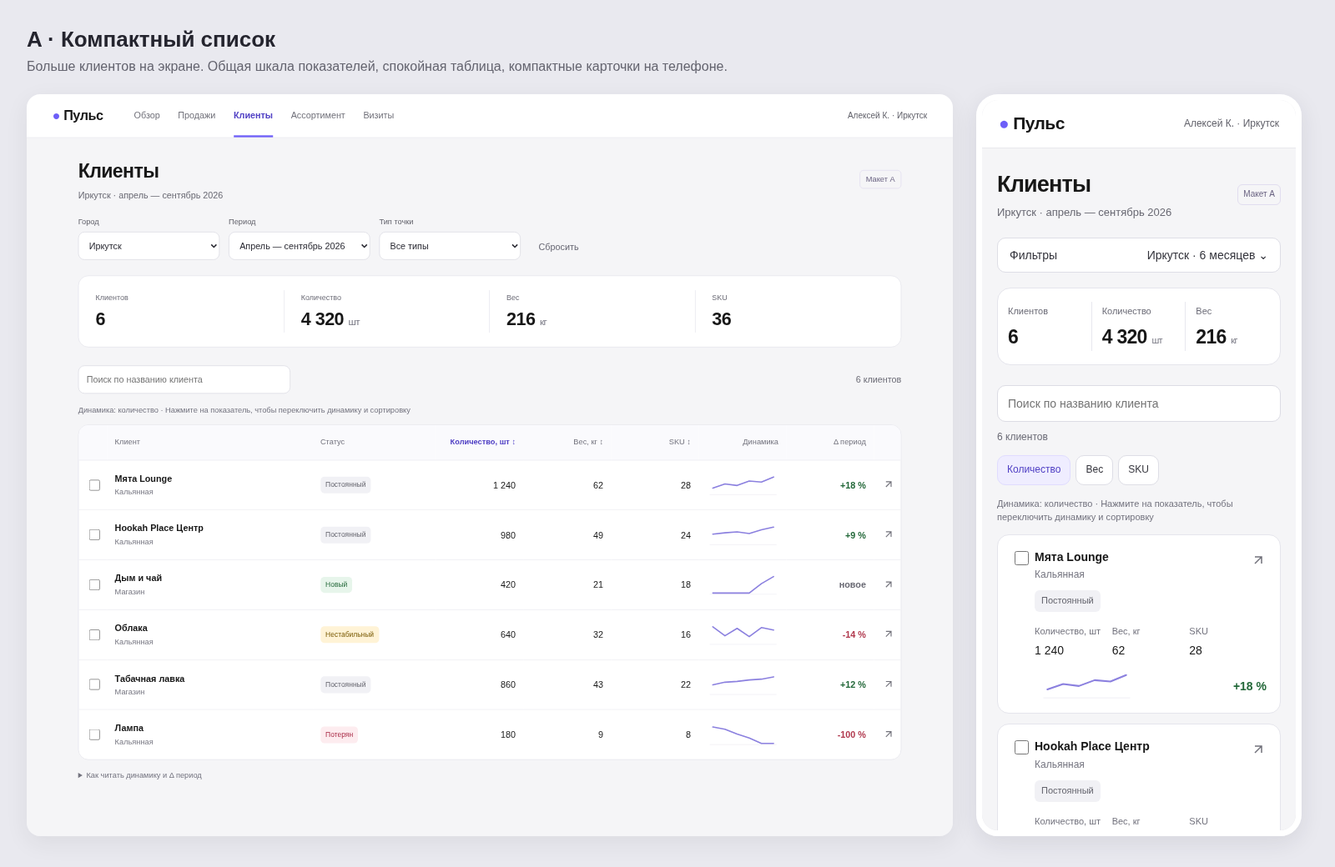
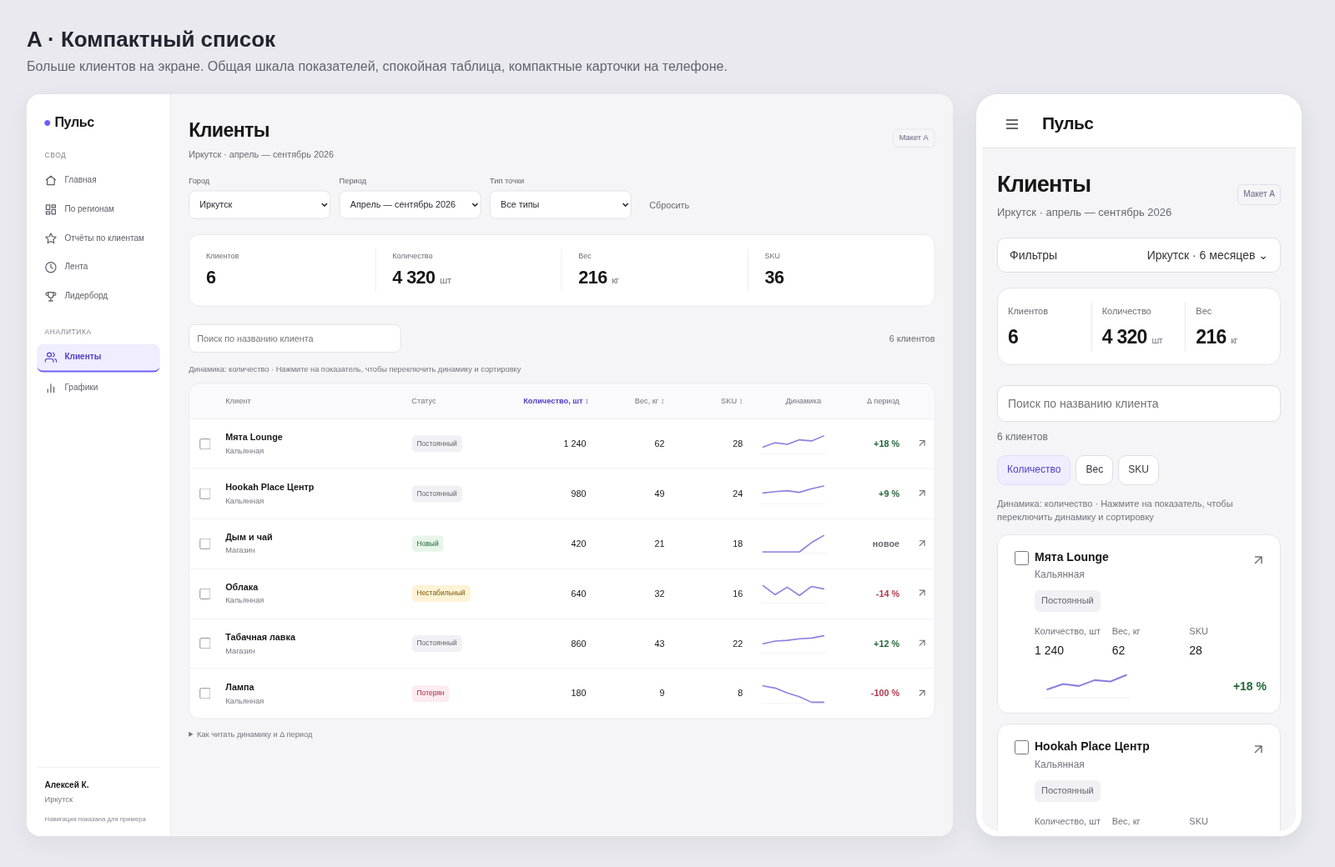
docs: retain sidebar in client concept A

diff --git a/docs/client-concepts/variant-a.html b/docs/client-concepts/variant-a.html
@@ -1,1 +1,1 @@
-<!doctype html><html lang="ru"><meta charset="utf-8"><meta name="viewport" content="width=device-width,initial-scale=1"><title>Пульс · Клиенты · Вариант A</title><style>*{box-sizing:border-box}body{margin:0;background:#f5f5f7;color:#171717;font:14px/1.45 -apple-system,BlinkMacSystemFont,"Segoe UI",Arial,sans-serif}button,input,select{font:inherit}button,select{cursor:pointer}button:focus-visible,input:focus-visible,select:focus-visible,a:focus-visible{outline:2px solid #5141c5;outline-offset:3px}button{border:1px solid #dedee6;background:white;border-radius:10px;padding:10px 14px;color:#34343c;min-height:42px}header{height:68px;background:white;border-bottom:1px solid #e8e8ed;display:flex;align-items:center;padding:0 40px;gap:48px}.logo{font-size:21px;font-weight:750;letter-spacing:-.6px}.logo i{color:#6d5ef8;font-style:normal}nav{display:flex;gap:28px;color:#72727b;height:100%;align-items:center}nav span{height:100%;display:flex;align-items:center}nav .active{color:#5141c5;border-bottom:3px solid #6d5ef8;font-weight:650}.account{margin-left:auto;color:#62626b;font-size:13px}main{max-width:1360px;margin:auto;padding:30px 40px}.heading{display:flex;align-items:center;justify-content:space-between;margin-bottom:24px}h1{font-size:30px;letter-spacing:-.8px;margin:0 0 5px;font-weight:700}.sub{color:#696973}.demo{font-size:12px;color:#6a6382;border:1px solid #e1ddef;border-radius:6px;padding:5px 9px}.filters{display:flex;gap:14px;align-items:flex-end;padding-bottom:24px}label.field{display:grid;gap:6px;font-size:12px;color:#62626b;width:220px}select,input[type=search]{border:1px solid #dcdce4;border-radius:10px;background:white;padding:11px 12px;color:#292932;min-height:44px;width:100%}select{font-size:14px}.reset{color:#676773;border:0;background:transparent}.summary{display:grid;grid-template-columns:repeat(4,1fr);background:white;border:1px solid #e5e5ec;border-radius:16px;padding:22px 0;margin-bottom:28px}.stat{padding:0 26px;border-right:1px solid #e8e8ee}.stat:last-child{border:0}.stat small{color:#6c6c77}.value{font-size:28px;font-weight:650;letter-spacing:-.7px;margin-top:5px}.value em{font-size:15px;font-style:normal;color:#777783;font-weight:400}.toolbar{display:flex;gap:16px;align-items:center;margin-bottom:18px}.toolbar input{max-width:330px}.count{color:#6c6c77;margin-left:auto}.hint{font-size:12px;color:#73737f;margin-bottom:12px}.table-shell{border:1px solid #e5e5ec;border-radius:16px;background:white;overflow:hidden}table{border-collapse:collapse;width:100%;table-layout:fixed}th{text-align:left;color:#72727d;font-size:12px;font-weight:500;background:#fafafd;padding:14px 12px;border-bottom:1px solid #e9e9ef}th button{border:0;background:transparent;padding:0;min-height:26px;color:inherit;text-align:right;font-size:12px;white-space:nowrap}th.selected button{color:#5141c5;font-weight:650}td{padding:18px 12px;border-bottom:1px solid #ededf2}tr:last-child td{border:0}tbody tr:hover{background:#fbfaff}th:first-child,td:first-child{width:44px;text-align:center}th:nth-child(2){width:25%}th:nth-child(3){width:15%}th.num,td.num{text-align:right}th:last-child,td:last-child{width:42px;text-align:center}input[type=checkbox]{width:17px;height:17px;accent-color:#6d5ef8;cursor:pointer;vertical-align:middle}.name{font-weight:650;font-size:14px}.type{font-size:12px;color:#777782;margin-top:3px}.badge{font-size:11px;border-radius:6px;padding:5px 8px;white-space:nowrap;display:inline-block;background:#f1f1f5;color:#64646d}.badge.new{background:#e7f5eb;color:#236839}.badge.unstable{background:#fff3d6;color:#775800}.badge.lost{background:#fdecef;color:#a82945}.delta{font-weight:600}.up{color:#236839}.down{color:#b1394e}.neutral{color:#696973}.spark{width:110px;height:34px;display:block;margin-left:auto}.open{border:0;padding:3px;min-height:32px;color:#72727b;background:transparent;font-size:22px}.selection{display:none;gap:12px;align-items:center;background:#efedff;border:1px solid #dcd6ff;padding:12px 16px;border-radius:12px;margin:14px 0}.selection.on{display:flex}.primary{background:#6d5ef8;color:white;border-color:#6d5ef8}.foot{font-size:12px;color:#73737f;margin-top:16px}.mobile-sort{display:none}.cards{display:grid;grid-template-columns:repeat(3,1fr);gap:18px}.client-card{background:white;border:1px solid #e5e5ec;border-radius:16px;padding:22px}.card-top{display:flex;align-items:flex-start;gap:10px}.card-top .badge{margin-left:auto}.card-title{margin:16px 0 3px;font-size:18px;font-weight:650;letter-spacing:-.3px}.card-metrics{display:grid;grid-template-columns:repeat(3,1fr);padding:22px 0;border-bottom:1px solid #ededf2;gap:10px}.card-metrics small{font-size:11px;color:#757580;display:block;margin-bottom:5px}.card-metrics strong{font-size:20px;font-weight:600}.card-bottom{display:flex;align-items:center;justify-content:space-between;margin-top:18px;gap:12px}.card-bottom .spark{width:120px;height:38px;margin:0}.card-bottom small{font-size:11px;color:#777782;display:block;margin-bottom:2px}.airy .summary{background:transparent;border:0;padding:0;gap:18px}.airy .stat{border:0;background:white;border-radius:14px;padding:22px 24px}.airy .heading{margin-bottom:32px}.airy .mobile-sort{display:flex;margin:0;gap:6px}.mobile-sort button.active{color:#5141c5;background:#efedff;border-color:#e0dcff}.airy .toolbar{flex-wrap:wrap}.empty{padding:36px;color:#73737f;text-align:center}.dialog{border:1px solid #dedee6;border-radius:18px;padding:24px;max-width:500px;width:calc(100% - 40px)}.dialog::backdrop{background:#12102066}.dialog h2{margin-top:0}.dialog button{float:right}.filter-toggle{display:none} @media(max-width:760px){header{height:58px;padding:0 20px;gap:0}nav{display:none}.account{font-size:12px}main{padding:24px 18px}h1{font-size:27px}.heading{margin-bottom:20px}.demo{font-size:10px;padding:4px 6px}.sub{font-size:13px}.filter-toggle{display:block;width:100%;text-align:left;margin-bottom:18px;display:flex;justify-content:space-between}.filters{display:none;flex-wrap:wrap;padding:0 0 20px;gap:10px}.filters.expanded{display:flex}label.field{width:100%}.summary{grid-template-columns:repeat(3,1fr);padding:16px 0;margin-bottom:24px}.stat{padding:0 12px}.stat:nth-child(3){border:0}.stat:last-child{display:none}.value{font-size:23px}.value em{font-size:11px}.stat small{font-size:11px}.toolbar{gap:10px;flex-wrap:wrap;margin-bottom:12px}.toolbar input{max-width:none}.count{font-size:12px;margin-left:0}.hint{font-size:11px;line-height:1.5;margin-top:12px}.table-shell{border:0;background:transparent;overflow:visible}table,tbody{display:block}thead{display:none}tr{display:grid;grid-template-columns:28px 1fr 1fr 1fr;background:white;border:1px solid #e5e5ec;border-radius:14px;padding:16px;margin-bottom:12px;align-items:start;position:relative}td{padding:0;border:0!important}td:first-child{grid-row:1/3;width:auto;align-self:start;text-align:left}td:nth-child(2){grid-column:2/5;margin-right:70px}td:nth-child(3){grid-column:2/5;margin-top:10px;margin-bottom:16px}td.num[data-label]{text-align:left;grid-row:3;margin-bottom:15px}td.num[data-label]::before{content:attr(data-label);display:block;font-size:11px;color:#73737e;margin-bottom:4px}td:nth-child(4){grid-column:2}td:nth-child(5){grid-column:3}td:nth-child(6){grid-column:4}td:nth-child(7){grid-column:2/4;grid-row:4}.spark{margin:0;width:125px}td:nth-child(8){grid-column:4;grid-row:4;padding-top:8px}td:last-child{position:absolute;right:15px;top:12px;width:auto}.mobile-sort{display:flex;gap:6px;margin-bottom:14px;flex-wrap:wrap}.mobile-sort button{font-size:12px;min-height:36px;padding:8px 11px}.selection{flex-wrap:wrap;padding:12px}.selection span{width:100%;font-size:13px}.selection button{font-size:12px;padding:9px}.cards{grid-template-columns:1fr;gap:14px}.client-card{padding:20px}.airy .summary{gap:8px;margin-bottom:24px}.airy .stat{padding:14px 10px}.airy .heading{margin-bottom:20px}.airy .mobile-sort{margin-bottom:6px}.card-title{font-size:18px}.foot{font-size:11px}.airy .count{margin-left:auto}}</style><body class="compact"><header><div class="logo"><i>●</i> Пульс</div><nav aria-label="Главное меню"><span>Обзор</span><span>Продажи</span><span class="active">Клиенты</span><span>Ассортимент</span><span>Визиты</span></nav><div class="account">Алексей К. · Иркутск</div></header><main><div class="heading"><div><h1>Клиенты</h1><div class="sub">Иркутск · апрель — сентябрь 2026</div></div><span class="demo">Макет A</span></div><button id="filter-toggle" class="filter-toggle" aria-expanded="false">Фильтры <span>Иркутск · 6 месяцев ⌄</span></button><div class="filters"><label class="field">Город<select><option>Иркутск</option></select></label><label class="field">Период<select><option>Апрель — сентябрь 2026</option></select></label><label class="field">Тип точки<select id="type"><option value="">Все типы</option><option>Кальянная</option><option>Магазин</option></select></label><button class="reset" id="reset">Сбросить</button></div><section class="summary" aria-label="Итоги за период"><div class="stat"><small>Клиентов</small><div class="value">6</div></div><div class="stat"><small>Количество</small><div class="value">4 320 <em>шт</em></div></div><div class="stat"><small>Вес</small><div class="value">216 <em>кг</em></div></div><div class="stat"><small>SKU</small><div class="value">36</div></div></section><div class="toolbar"><input type="search" id="search" aria-label="Поиск клиента" placeholder="Поиск по названию клиента"><span id="count" class="count"></span></div><div class="mobile-sort"><button data-metric="q" class="active">Количество</button><button data-metric="w" class="">Вес</button><button data-metric="sku" class="">SKU</button></div><div class="hint">Динамика: <span id="metric-name">количество</span> · Нажмите на показатель, чтобы переключить динамику и сортировку</div><div class="selection" id="selection" role="status"><span id="selected-count"></span><button class="primary" data-report>Сформировать свод</button><button data-report>Амбассадорский отчёт</button></div><div class="table-shell"><table><thead><tr><th></th><th>Клиент</th><th>Статус</th><th class="num selected"><button data-metric="q">Количество, шт ↕</button></th><th class="num"><button data-metric="w">Вес, кг ↕</button></th><th class="num"><button data-metric="sku">SKU ↕</button></th><th class="num">Динамика</th><th class="num">Δ период</th><th></th></tr></thead><tbody id="rows"></tbody></table></div><details class="foot"><summary>Как читать динамику и Δ период</summary><p>Динамика показывает изменение выбранного показателя по месяцам. Δ период сравнивает последний месяц с данными со средним значением предыдущих месяцев выбранного периода. Месяцы без данных не считаются нулём.</p></details></main><dialog class="dialog"><h2 id="dialog-title">Клиент</h2><p>Это визуальный макет с демонстрационными данными. В рабочей версии здесь открывается карточка клиента или формируется выбранный отчёт.</p><form method="dialog"><button>Закрыть</button></form></dialog><script>const data=[{"name": "Мята Lounge", "type": "Кальянная", "status": "Постоянный", "q": 1240, "w": 62, "sku": 28, "delta": 18, "series": [20, 36, 30, 47, 43, 62]}, {"name": "Hookah Place Центр", "type": "Кальянная", "status": "Постоянный", "q": 980, "w": 49, "sku": 24, "delta": 9, "series": [28, 32, 35, 30, 41, 49]}, {"name": "Дым и чай", "type": "Магазин", "status": "Новый", "q": 420, "w": 21, "sku": 18, "delta": null, "series": [0, 0, 0, 0, 12, 21]}, {"name": "Облака", "type": "Кальянная", "status": "Нестабильный", "q": 640, "w": 32, "sku": 16, "delta": -14, "series": [40, 18, 36, 16, 38, 32]}, {"name": "Табачная лавка", "type": "Магазин", "status": "Постоянный", "q": 860, "w": 43, "sku": 22, "delta": 12, "series": [22, 29, 31, 35, 37, 43]}, {"name": "Лампа", "type": "Кальянная", "status": "Потерян", "q": 180, "w": 9, "sku": 8, "delta": -100, "series": [30, 26, 17, 10, 0, 0]}];let metric='q',direction=0,selected=new Set();const fmt=n=>new Intl.NumberFormat('ru-RU').format(n);const labels={q:'Количество',w:'Вес',sku:'SKU'};function spark(d){let arr=d.series;let pts=arr.map((n,i)=>`${5+i*20},${32-n/Math.max(...arr,1)*27}`).join(' ');return `<svg class="spark" viewBox="0 0 110 36" role="img" aria-label="Динамика ${labels[metric].toLowerCase()}: апрель — сентябрь"><path d="M0 34H110" stroke="#eeedf4"/><polyline points="${pts}" fill="none" stroke="#8b80df" stroke-width="2.2" stroke-linecap="round" stroke-linejoin="round"/></svg>`}function badge(d){return `<span class="badge ${d.status==='Новый'?'new':d.status==='Потерян'?'lost':d.status==='Нестабильный'?'unstable':''}">${d.status}</span>`}function delta(d){return `<span class="delta ${d.delta===null?'neutral':d.delta>=0?'up':'down'}">${d.delta===null?'новое':(d.delta>0?'+':'')+d.delta+' %'}</span>`}function check(d){return `<input type="checkbox" aria-label="Выбрать ${d.name}" data-id="${d.name}" ${selected.has(d.name)?'checked':''}>`}function render(){let list=data.filter(d=>d.name.toLowerCase().includes(document.querySelector('#search').value.toLowerCase()) && (!document.querySelector('#type').value || d.type===document.querySelector('#type').value));if(direction)list.sort((a,b)=>direction===1?b[metric]-a[metric]:a[metric]-b[metric]);document.querySelector('#count').textContent=`${list.length} клиентов`;document.querySelector('#metric-name').textContent=labels[metric].toLowerCase();document.querySelectorAll('[data-metric]').forEach(b=>{b.classList.toggle('active',b.dataset.metric===metric);if(b.closest('th'))b.closest('th').classList.toggle('selected',b.dataset.metric===metric)});document.querySelector('#rows').innerHTML=list.length?list.map(d=>document.body.classList.contains('airy')?`<article class="client-card"><div class="card-top">${check(d)}${badge(d)}</div><div class="card-title">${d.name}</div><div class="type">${d.type} · Иркутск</div><div class="card-metrics"><div><small>Количество, шт</small><strong>${fmt(d.q)}</strong></div><div><small>Вес, кг</small><strong>${fmt(d.w)}</strong></div><div><small>SKU</small><strong>${d.sku}</strong></div></div><div class="card-bottom">${spark(d)}<div><small>Δ период</small>${delta(d)}</div><button class="open" aria-label="Открыть ${d.name}" data-open="${d.name}"><svg width="16" height="16" viewBox="0 0 16 16" aria-hidden="true"><path d="M4 12L12 4M4 4h8v8" fill="none" stroke="currentColor" stroke-width="1.5"/></svg></button></div></article>`:`<tr><td>${check(d)}</td><td><div class="name">${d.name}</div><div class="type">${d.type}</div></td><td>${badge(d)}</td><td class="num" data-label="Количество, шт">${fmt(d.q)}</td><td class="num" data-label="Вес, кг">${fmt(d.w)}</td><td class="num" data-label="SKU">${d.sku}</td><td>${spark(d)}</td><td class="num">${delta(d)}</td><td><button class="open" aria-label="Открыть ${d.name}" data-open="${d.name}"><svg width="16" height="16" viewBox="0 0 16 16" aria-hidden="true"><path d="M4 12L12 4M4 4h8v8" fill="none" stroke="currentColor" stroke-width="1.5"/></svg></button></td></tr>`).join(''):`<div class="empty">Клиенты не найдены. Попробуйте изменить поиск.</div>`;document.querySelector('#selection').classList.toggle('on',selected.size>0);document.querySelector('#selected-count').textContent=`Выбрано клиентов: ${selected.size}`;}document.addEventListener('click',e=>{const b=e.target.closest('[data-metric]');if(b){direction=metric===b.dataset.metric?(direction+1)%3:1;metric=b.dataset.metric;render()}const open=e.target.closest('[data-open]');if(open){document.querySelector('#dialog-title').textContent=open.dataset.open;document.querySelector('dialog').showModal()}});document.addEventListener('change',e=>{if(e.target.dataset.id){e.target.checked?selected.add(e.target.dataset.id):selected.delete(e.target.dataset.id);render()}});document.querySelector('#search').addEventListener('input',render);document.querySelector('#type').addEventListener('change',render);document.querySelector('#filter-toggle').onclick=()=>{let v=document.querySelector('.filters').classList.toggle('expanded');document.querySelector('#filter-toggle').setAttribute('aria-expanded',v)};document.querySelector('#reset').onclick=()=>{document.querySelector('#search').value='';document.querySelector('#type').value='';render()};document.querySelectorAll('[data-report]').forEach(b=>b.onclick=()=>{document.querySelector('#dialog-title').textContent=b.textContent;document.querySelector('dialog').showModal()});render();</script></body></html>
+<!doctype html><html lang="ru"><meta charset="utf-8"><meta name="viewport" content="width=device-width,initial-scale=1"><title>Пульс · Клиенты · Вариант A</title><style>*{box-sizing:border-box}body{margin:0;background:#f5f5f7;color:#171717;font:14px/1.45 -apple-system,BlinkMacSystemFont,"Segoe UI",Arial,sans-serif}button,input,select{font:inherit}button,select{cursor:pointer}button:focus-visible,input:focus-visible,select:focus-visible,a:focus-visible{outline:2px solid #5141c5;outline-offset:3px}button{border:1px solid #dedee6;background:white;border-radius:10px;padding:10px 14px;color:#34343c;min-height:42px}header{height:68px;background:white;border-bottom:1px solid #e8e8ed;display:flex;align-items:center;padding:0 40px;gap:48px}.logo{font-size:21px;font-weight:750;letter-spacing:-.6px}.logo i{color:#6d5ef8;font-style:normal}nav{display:flex;gap:28px;color:#72727b;height:100%;align-items:center}nav span{height:100%;display:flex;align-items:center}nav .active{color:#5141c5;border-bottom:3px solid #6d5ef8;font-weight:650}.account{margin-left:auto;color:#62626b;font-size:13px}main{max-width:1360px;margin:auto;padding:30px 40px}.heading{display:flex;align-items:center;justify-content:space-between;margin-bottom:24px}h1{font-size:30px;letter-spacing:-.8px;margin:0 0 5px;font-weight:700}.sub{color:#696973}.demo{font-size:12px;color:#6a6382;border:1px solid #e1ddef;border-radius:6px;padding:5px 9px}.filters{display:flex;gap:14px;align-items:flex-end;padding-bottom:24px}label.field{display:grid;gap:6px;font-size:12px;color:#62626b;width:220px}select,input[type=search]{border:1px solid #dcdce4;border-radius:10px;background:white;padding:11px 12px;color:#292932;min-height:44px;width:100%}select{font-size:14px}.reset{color:#676773;border:0;background:transparent}.summary{display:grid;grid-template-columns:repeat(4,1fr);background:white;border:1px solid #e5e5ec;border-radius:16px;padding:22px 0;margin-bottom:28px}.stat{padding:0 26px;border-right:1px solid #e8e8ee}.stat:last-child{border:0}.stat small{color:#6c6c77}.value{font-size:28px;font-weight:650;letter-spacing:-.7px;margin-top:5px}.value em{font-size:15px;font-style:normal;color:#777783;font-weight:400}.toolbar{display:flex;gap:16px;align-items:center;margin-bottom:18px}.toolbar input{max-width:330px}.count{color:#6c6c77;margin-left:auto}.hint{font-size:12px;color:#73737f;margin-bottom:12px}.table-shell{border:1px solid #e5e5ec;border-radius:16px;background:white;overflow:hidden}table{border-collapse:collapse;width:100%;table-layout:fixed}th{text-align:left;color:#72727d;font-size:12px;font-weight:500;background:#fafafd;padding:14px 12px;border-bottom:1px solid #e9e9ef}th button{border:0;background:transparent;padding:0;min-height:26px;color:inherit;text-align:right;font-size:12px;white-space:nowrap}th.selected button{color:#5141c5;font-weight:650}td{padding:18px 12px;border-bottom:1px solid #ededf2}tr:last-child td{border:0}tbody tr:hover{background:#fbfaff}th:first-child,td:first-child{width:44px;text-align:center}th:nth-child(2){width:25%}th:nth-child(3){width:15%}th.num,td.num{text-align:right}th:last-child,td:last-child{width:42px;text-align:center}input[type=checkbox]{width:17px;height:17px;accent-color:#6d5ef8;cursor:pointer;vertical-align:middle}.name{font-weight:650;font-size:14px}.type{font-size:12px;color:#777782;margin-top:3px}.badge{font-size:11px;border-radius:6px;padding:5px 8px;white-space:nowrap;display:inline-block;background:#f1f1f5;color:#64646d}.badge.new{background:#e7f5eb;color:#236839}.badge.unstable{background:#fff3d6;color:#775800}.badge.lost{background:#fdecef;color:#a82945}.delta{font-weight:600}.up{color:#236839}.down{color:#b1394e}.neutral{color:#696973}.spark{width:110px;height:34px;display:block;margin-left:auto}.open{border:0;padding:3px;min-height:32px;color:#72727b;background:transparent;font-size:22px}.selection{display:none;gap:12px;align-items:center;background:#efedff;border:1px solid #dcd6ff;padding:12px 16px;border-radius:12px;margin:14px 0}.selection.on{display:flex}.primary{background:#6d5ef8;color:white;border-color:#6d5ef8}.foot{font-size:12px;color:#73737f;margin-top:16px}.mobile-sort{display:none}.cards{display:grid;grid-template-columns:repeat(3,1fr);gap:18px}.client-card{background:white;border:1px solid #e5e5ec;border-radius:16px;padding:22px}.card-top{display:flex;align-items:flex-start;gap:10px}.card-top .badge{margin-left:auto}.card-title{margin:16px 0 3px;font-size:18px;font-weight:650;letter-spacing:-.3px}.card-metrics{display:grid;grid-template-columns:repeat(3,1fr);padding:22px 0;border-bottom:1px solid #ededf2;gap:10px}.card-metrics small{font-size:11px;color:#757580;display:block;margin-bottom:5px}.card-metrics strong{font-size:20px;font-weight:600}.card-bottom{display:flex;align-items:center;justify-content:space-between;margin-top:18px;gap:12px}.card-bottom .spark{width:120px;height:38px;margin:0}.card-bottom small{font-size:11px;color:#777782;display:block;margin-bottom:2px}.airy .summary{background:transparent;border:0;padding:0;gap:18px}.airy .stat{border:0;background:white;border-radius:14px;padding:22px 24px}.airy .heading{margin-bottom:32px}.airy .mobile-sort{display:flex;margin:0;gap:6px}.mobile-sort button.active{color:#5141c5;background:#efedff;border-color:#e0dcff}.airy .toolbar{flex-wrap:wrap}.empty{padding:36px;color:#73737f;text-align:center}.dialog{border:1px solid #dedee6;border-radius:18px;padding:24px;max-width:500px;width:calc(100% - 40px)}.dialog::backdrop{background:#12102066}.dialog h2{margin-top:0}.dialog button{float:right}.filter-toggle{display:none} @media(max-width:760px){header{height:58px;padding:0 20px;gap:0}nav{display:none}.account{font-size:12px}main{padding:24px 18px}h1{font-size:27px}.heading{margin-bottom:20px}.demo{font-size:10px;padding:4px 6px}.sub{font-size:13px}.filter-toggle{display:block;width:100%;text-align:left;margin-bottom:18px;display:flex;justify-content:space-between}.filters{display:none;flex-wrap:wrap;padding:0 0 20px;gap:10px}.filters.expanded{display:flex}label.field{width:100%}.summary{grid-template-columns:repeat(3,1fr);padding:16px 0;margin-bottom:24px}.stat{padding:0 12px}.stat:nth-child(3){border:0}.stat:last-child{display:none}.value{font-size:23px}.value em{font-size:11px}.stat small{font-size:11px}.toolbar{gap:10px;flex-wrap:wrap;margin-bottom:12px}.toolbar input{max-width:none}.count{font-size:12px;margin-left:0}.hint{font-size:11px;line-height:1.5;margin-top:12px}.table-shell{border:0;background:transparent;overflow:visible}table,tbody{display:block}thead{display:none}tr{display:grid;grid-template-columns:28px 1fr 1fr 1fr;background:white;border:1px solid #e5e5ec;border-radius:14px;padding:16px;margin-bottom:12px;align-items:start;position:relative}td{padding:0;border:0!important}td:first-child{grid-row:1/3;width:auto;align-self:start;text-align:left}td:nth-child(2){grid-column:2/5;margin-right:70px}td:nth-child(3){grid-column:2/5;margin-top:10px;margin-bottom:16px}td.num[data-label]{text-align:left;grid-row:3;margin-bottom:15px}td.num[data-label]::before{content:attr(data-label);display:block;font-size:11px;color:#73737e;margin-bottom:4px}td:nth-child(4){grid-column:2}td:nth-child(5){grid-column:3}td:nth-child(6){grid-column:4}td:nth-child(7){grid-column:2/4;grid-row:4}.spark{margin:0;width:125px}td:nth-child(8){grid-column:4;grid-row:4;padding-top:8px}td:last-child{position:absolute;right:15px;top:12px;width:auto}.mobile-sort{display:flex;gap:6px;margin-bottom:14px;flex-wrap:wrap}.mobile-sort button{font-size:12px;min-height:36px;padding:8px 11px}.selection{flex-wrap:wrap;padding:12px}.selection span{width:100%;font-size:13px}.selection button{font-size:12px;padding:9px}.cards{grid-template-columns:1fr;gap:14px}.client-card{padding:20px}.airy .summary{gap:8px;margin-bottom:24px}.airy .stat{padding:14px 10px}.airy .heading{margin-bottom:20px}.airy .mobile-sort{margin-bottom:6px}.card-title{font-size:18px}.foot{font-size:11px}.airy .count{margin-left:auto}} .compact main{margin-left:224px;max-width:none;padding:34px 28px}.side{width:224px;position:fixed;inset:0 auto 0 0;background:#fff;border-right:1px solid #e5e5ec;display:flex;flex-direction:column;padding:28px 16px 20px;z-index:20}.side-brand{padding:0 10px 30px;display:flex;align-items:center;justify-content:space-between}.side-nav{display:block;height:auto}.side-label{font-size:11px;text-transform:uppercase;letter-spacing:.7px;color:#85858f;padding:0 12px 10px}.analytics-label{margin-top:28px}.side-link{display:flex;align-items:center;gap:12px;padding:11px 12px;border-radius:10px;color:#5e5e6a;margin-bottom:4px;font-size:13px}.side-link svg{width:19px;height:19px;flex:none}.side-link span{display:inline;height:auto}.side-link.active{background:#efedff;color:#5141c5;font-weight:650}.side-footer{margin-top:auto;border-top:1px solid #ededf2;padding:18px 12px 0;display:grid;gap:4px;font-size:13px}.side-footer span{font-size:12px;color:#777782}.side-footer small{font-size:10px;color:#868691;margin-top:10px}#menu-close,.mobile-bar,.menu-overlay{display:none}@media(min-width:761px) and (max-width:1050px){.compact main{padding:28px 20px}.table-shell{overflow-x:auto}.table-shell table{min-width:800px}.filters{flex-wrap:wrap}}@media(max-width:760px){.compact main{margin-left:0;padding:24px 18px}.side{transform:translateX(-100%);transition:transform .2s ease}.menu-opened .side{transform:none}.mobile-bar{height:58px;display:flex;align-items:center;gap:14px;background:white;border-bottom:1px solid #e5e5ec;padding:0 14px}#menu-open{border:0;padding:8px;background:transparent;display:flex;align-items:center;justify-content:center;min-width:44px}#menu-close{display:block;min-height:36px;border:0;font-size:24px;padding:0 8px}.menu-overlay:not([hidden]){display:block;position:fixed;inset:0;background:#17172166;border:0;border-radius:0;z-index:19;width:100%;height:100%}.menu-opened{overflow:hidden}}@media(prefers-reduced-motion:reduce){.side{transition:none}}</style><body class="compact"><aside class="side" id="side" aria-label="Боковая навигация"><div class="side-brand"><div class="logo"><i>●</i> Пульс</div><button id="menu-close" aria-label="Закрыть меню">×</button></div><nav class="side-nav" aria-label="Разделы Пульса"><div class="side-label">Свод</div><div class="side-link " ><svg class="sidebar-nav-icon" viewBox="0 0 24 24" fill="none" stroke="currentColor" stroke-width="2" stroke-linecap="round" stroke-linejoin="round"><path d="M3 10.5 12 3l9 7.5"></path><path d="M5 9v11h14V9"></path></svg><span>Главная</span></div><div class="side-link " ><svg class="sidebar-nav-icon" viewBox="0 0 24 24" fill="none" stroke="currentColor" stroke-width="2" stroke-linecap="round" stroke-linejoin="round"><rect x="3" y="3" width="7" height="9"></rect><rect x="14" y="3" width="7" height="5"></rect><rect x="14" y="12" width="7" height="9"></rect><rect x="3" y="16" width="7" height="5"></rect></svg><span>По регионам</span></div><div class="side-link " ><svg class="sidebar-nav-icon" viewBox="0 0 24 24" fill="none" stroke="currentColor" stroke-width="2" stroke-linecap="round" stroke-linejoin="round"><polygon points="12 2 15.09 8.26 22 9.27 17 14.14 18.18 21.02 12 17.77 5.82 21.02 7 14.14 2 9.27 8.91 8.26 12 2"></polygon></svg><span>Отчёты по клиентам</span></div><div class="side-link " ><svg class="sidebar-nav-icon" viewBox="0 0 24 24" fill="none" stroke="currentColor" stroke-width="2" stroke-linecap="round" stroke-linejoin="round"><circle cx="12" cy="12" r="10"></circle><polyline points="12 6 12 12 16 14"></polyline></svg><span>Лента</span></div><div class="side-link " ><svg class="sidebar-nav-icon" viewBox="0 0 24 24" fill="none" stroke="currentColor" stroke-width="2" stroke-linecap="round" stroke-linejoin="round"><path d="M8 21h8"></path><path d="M12 17v4"></path><path d="M7 4h10v6a5 5 0 0 1-10 0V4z"></path><path d="M17 5h3a2 2 0 0 1-2 5"></path><path d="M7 5H4a2 2 0 0 0 2 5"></path></svg><span>Лидерборд</span></div><div class="side-label analytics-label">Аналитика</div><div class="side-link active" aria-current=page><svg class="sidebar-nav-icon" viewBox="0 0 24 24" fill="none" stroke="currentColor" stroke-width="2" stroke-linecap="round" stroke-linejoin="round"><path d="M17 21v-2a4 4 0 0 0-4-4H5a4 4 0 0 0-4 4v2"></path><circle cx="9" cy="7" r="4"></circle><path d="M23 21v-2a4 4 0 0 0-3-3.87"></path><path d="M16 3.13a4 4 0 0 1 0 7.75"></path></svg><span>Клиенты</span></div><div class="side-link " ><svg class="sidebar-nav-icon" viewBox="0 0 24 24" fill="none" stroke="currentColor" stroke-width="2" stroke-linecap="round" stroke-linejoin="round"><line x1="18" y1="20" x2="18" y2="10"></line><line x1="12" y1="20" x2="12" y2="4"></line><line x1="6" y1="20" x2="6" y2="14"></line></svg><span>Графики</span></div></nav><div class="side-footer"><strong>Алексей К.</strong><span>Иркутск</span><small>Навигация показана для примера</small></div></aside><button class="menu-overlay" id="menu-overlay" aria-label="Закрыть меню" hidden></button><div class="mobile-bar"><button id="menu-open" aria-controls="side" aria-expanded="false" aria-label="Открыть меню"><svg width="20" height="20" viewBox="0 0 20 20" aria-hidden="true"><path d="M3 5h14M3 10h14M3 15h14" stroke="currentColor" stroke-width="1.5"/></svg></button><span class="logo">Пульс</span></div><main><div class="heading"><div><h1>Клиенты</h1><div class="sub">Иркутск · апрель — сентябрь 2026</div></div><span class="demo">Макет A</span></div><button id="filter-toggle" class="filter-toggle" aria-expanded="false">Фильтры <span>Иркутск · 6 месяцев ⌄</span></button><div class="filters"><label class="field">Город<select><option>Иркутск</option></select></label><label class="field">Период<select><option>Апрель — сентябрь 2026</option></select></label><label class="field">Тип точки<select id="type"><option value="">Все типы</option><option>Кальянная</option><option>Магазин</option></select></label><button class="reset" id="reset">Сбросить</button></div><section class="summary" aria-label="Итоги за период"><div class="stat"><small>Клиентов</small><div class="value">6</div></div><div class="stat"><small>Количество</small><div class="value">4 320 <em>шт</em></div></div><div class="stat"><small>Вес</small><div class="value">216 <em>кг</em></div></div><div class="stat"><small>SKU</small><div class="value">36</div></div></section><div class="toolbar"><input type="search" id="search" aria-label="Поиск клиента" placeholder="Поиск по названию клиента"><span id="count" class="count"></span></div><div class="mobile-sort"><button data-metric="q" class="active">Количество</button><button data-metric="w" class="">Вес</button><button data-metric="sku" class="">SKU</button></div><div class="hint">Динамика: <span id="metric-name">количество</span> · Нажмите на показатель, чтобы переключить динамику и сортировку</div><div class="selection" id="selection" role="status"><span id="selected-count"></span><button class="primary" data-report>Сформировать свод</button><button data-report>Амбассадорский отчёт</button></div><div class="table-shell"><table><thead><tr><th></th><th>Клиент</th><th>Статус</th><th class="num selected"><button data-metric="q">Количество, шт ↕</button></th><th class="num"><button data-metric="w">Вес, кг ↕</button></th><th class="num"><button data-metric="sku">SKU ↕</button></th><th class="num">Динамика</th><th class="num">Δ период</th><th></th></tr></thead><tbody id="rows"></tbody></table></div><details class="foot"><summary>Как читать динамику и Δ период</summary><p>Динамика показывает изменение выбранного показателя по месяцам. Δ период сравнивает последний месяц с данными со средним значением предыдущих месяцев выбранного периода. Месяцы без данных не считаются нулём.</p></details></main><dialog class="dialog"><h2 id="dialog-title">Клиент</h2><p>Это визуальный макет с демонстрационными данными. В рабочей версии здесь открывается карточка клиента или формируется выбранный отчёт.</p><form method="dialog"><button>Закрыть</button></form></dialog><script>const data=[{"name": "Мята Lounge", "type": "Кальянная", "status": "Постоянный", "q": 1240, "w": 62, "sku": 28, "delta": 18, "series": [20, 36, 30, 47, 43, 62]}, {"name": "Hookah Place Центр", "type": "Кальянная", "status": "Постоянный", "q": 980, "w": 49, "sku": 24, "delta": 9, "series": [28, 32, 35, 30, 41, 49]}, {"name": "Дым и чай", "type": "Магазин", "status": "Новый", "q": 420, "w": 21, "sku": 18, "delta": null, "series": [0, 0, 0, 0, 12, 21]}, {"name": "Облака", "type": "Кальянная", "status": "Нестабильный", "q": 640, "w": 32, "sku": 16, "delta": -14, "series": [40, 18, 36, 16, 38, 32]}, {"name": "Табачная лавка", "type": "Магазин", "status": "Постоянный", "q": 860, "w": 43, "sku": 22, "delta": 12, "series": [22, 29, 31, 35, 37, 43]}, {"name": "Лампа", "type": "Кальянная", "status": "Потерян", "q": 180, "w": 9, "sku": 8, "delta": -100, "series": [30, 26, 17, 10, 0, 0]}];let metric='q',direction=0,selected=new Set();const fmt=n=>new Intl.NumberFormat('ru-RU').format(n);const labels={q:'Количество',w:'Вес',sku:'SKU'};function spark(d){let arr=d.series;let pts=arr.map((n,i)=>`${5+i*20},${32-n/Math.max(...arr,1)*27}`).join(' ');return `<svg class="spark" viewBox="0 0 110 36" role="img" aria-label="Динамика ${labels[metric].toLowerCase()}: апрель — сентябрь"><path d="M0 34H110" stroke="#eeedf4"/><polyline points="${pts}" fill="none" stroke="#8b80df" stroke-width="2.2" stroke-linecap="round" stroke-linejoin="round"/></svg>`}function badge(d){return `<span class="badge ${d.status==='Новый'?'new':d.status==='Потерян'?'lost':d.status==='Нестабильный'?'unstable':''}">${d.status}</span>`}function delta(d){return `<span class="delta ${d.delta===null?'neutral':d.delta>=0?'up':'down'}">${d.delta===null?'новое':(d.delta>0?'+':'')+d.delta+' %'}</span>`}function check(d){return `<input type="checkbox" aria-label="Выбрать ${d.name}" data-id="${d.name}" ${selected.has(d.name)?'checked':''}>`}function render(){let list=data.filter(d=>d.name.toLowerCase().includes(document.querySelector('#search').value.toLowerCase()) && (!document.querySelector('#type').value || d.type===document.querySelector('#type').value));if(direction)list.sort((a,b)=>direction===1?b[metric]-a[metric]:a[metric]-b[metric]);document.querySelector('#count').textContent=`${list.length} клиентов`;document.querySelector('#metric-name').textContent=labels[metric].toLowerCase();document.querySelectorAll('[data-metric]').forEach(b=>{b.classList.toggle('active',b.dataset.metric===metric);if(b.closest('th'))b.closest('th').classList.toggle('selected',b.dataset.metric===metric)});document.querySelector('#rows').innerHTML=list.length?list.map(d=>document.body.classList.contains('airy')?`<article class="client-card"><div class="card-top">${check(d)}${badge(d)}</div><div class="card-title">${d.name}</div><div class="type">${d.type} · Иркутск</div><div class="card-metrics"><div><small>Количество, шт</small><strong>${fmt(d.q)}</strong></div><div><small>Вес, кг</small><strong>${fmt(d.w)}</strong></div><div><small>SKU</small><strong>${d.sku}</strong></div></div><div class="card-bottom">${spark(d)}<div><small>Δ период</small>${delta(d)}</div><button class="open" aria-label="Открыть ${d.name}" data-open="${d.name}"><svg width="16" height="16" viewBox="0 0 16 16" aria-hidden="true"><path d="M4 12L12 4M4 4h8v8" fill="none" stroke="currentColor" stroke-width="1.5"/></svg></button></div></article>`:`<tr><td>${check(d)}</td><td><div class="name">${d.name}</div><div class="type">${d.type}</div></td><td>${badge(d)}</td><td class="num" data-label="Количество, шт">${fmt(d.q)}</td><td class="num" data-label="Вес, кг">${fmt(d.w)}</td><td class="num" data-label="SKU">${d.sku}</td><td>${spark(d)}</td><td class="num">${delta(d)}</td><td><button class="open" aria-label="Открыть ${d.name}" data-open="${d.name}"><svg width="16" height="16" viewBox="0 0 16 16" aria-hidden="true"><path d="M4 12L12 4M4 4h8v8" fill="none" stroke="currentColor" stroke-width="1.5"/></svg></button></td></tr>`).join(''):`<div class="empty">Клиенты не найдены. Попробуйте изменить поиск.</div>`;document.querySelector('#selection').classList.toggle('on',selected.size>0);document.querySelector('#selected-count').textContent=`Выбрано клиентов: ${selected.size}`;}document.addEventListener('click',e=>{const b=e.target.closest('[data-metric]');if(b){direction=metric===b.dataset.metric?(direction+1)%3:1;metric=b.dataset.metric;render()}const open=e.target.closest('[data-open]');if(open){document.querySelector('#dialog-title').textContent=open.dataset.open;document.querySelector('dialog').showModal()}});document.addEventListener('change',e=>{if(e.target.dataset.id){e.target.checked?selected.add(e.target.dataset.id):selected.delete(e.target.dataset.id);render()}});document.querySelector('#search').addEventListener('input',render);document.querySelector('#type').addEventListener('change',render);document.querySelector('#filter-toggle').onclick=()=>{let v=document.querySelector('.filters').classList.toggle('expanded');document.querySelector('#filter-toggle').setAttribute('aria-expanded',v)};document.querySelector('#reset').onclick=()=>{document.querySelector('#search').value='';document.querySelector('#type').value='';render()};document.querySelectorAll('[data-report]').forEach(b=>b.onclick=()=>{document.querySelector('#dialog-title').textContent=b.textContent;document.querySelector('dialog').showModal()});render();const side=document.querySelector('#side'),menuOpen=document.querySelector('#menu-open'),menuClose=document.querySelector('#menu-close'),overlay=document.querySelector('#menu-overlay'),media=matchMedia('(max-width:760px)');function menu(open){document.body.classList.toggle('menu-opened',open);overlay.hidden=!open;menuOpen.setAttribute('aria-expanded',String(open));side.inert=media.matches&&!open;if(media.matches){document.querySelector('main').inert=open;document.querySelector('.mobile-bar').inert=open}if(open)menuClose.focus();else menuOpen.focus()}menuOpen.onclick=()=>menu(true);menuClose.onclick=()=>menu(false);overlay.onclick=()=>menu(false);document.addEventListener('keydown',e=>{if(e.key==='Escape'&&document.body.classList.contains('menu-opened'))menu(false);if(e.key==='Tab'&&document.body.classList.contains('menu-opened')){e.preventDefault();menuClose.focus()}});function responsiveMenu(){document.body.classList.remove('menu-opened');overlay.hidden=true;side.inert=media.matches;menuOpen.setAttribute('aria-expanded','false');document.querySelector('main').inert=false;document.querySelector('.mobile-bar').inert=false}media.addEventListener('change',responsiveMenu);responsiveMenu();</script></body></html>

diff --git a/docs/client-concepts/index.html b/docs/client-concepts/index.html
@@ -1,1 +1,1 @@
-<!doctype html><html lang="ru"><meta charset="utf-8"><meta name="viewport" content="width=device-width,initial-scale=1"><title>Клиенты · Два варианта</title><style>body{font:18px/1.5 system-ui;max-width:800px;margin:60px auto;padding:24px;color:#171717;background:#f5f5f7}a{color:#5141c5}article{background:white;border-radius:16px;padding:24px;margin-bottom:20px}h1{font-size:32px}</style><h1>Пульс · Клиенты</h1><p>Два визуальных направления. Макеты адаптируются к ширине экрана. Данные демонстрационные.</p><article><h2>A. Компактный</h2><p>Единый блок итогов, таблица на компьютере, компактные карточки на телефоне.</p><a href="variant-a.html">Открыть вариант A →</a></article><article><h2>B. Свободный</h2><p>Отдельные итоги и карточки клиентов на компьютере и телефоне. Больше воздуха, меньше строк в поле зрения.</p><a href="variant-b.html">Открыть вариант B →</a></article><p>Работают поиск, выбор клиентов, переключение динамики и сортировка. Формирование отчётов показано только как сценарий интерфейса.</p></html>
+<!doctype html><html lang="ru"><meta charset="utf-8"><meta name="viewport" content="width=device-width,initial-scale=1"><title>Клиенты · Два варианта</title><style>body{font:18px/1.5 system-ui;max-width:800px;margin:60px auto;padding:24px;color:#171717;background:#f5f5f7}a{color:#5141c5}article{background:white;border-radius:16px;padding:24px;margin-bottom:20px}h1{font-size:32px}</style><h1>Пульс · Клиенты</h1><p>Два визуальных направления. Макеты адаптируются к ширине экрана. Данные демонстрационные.</p><article><h2>A. Компактный</h2><p>Боковая навигация, единый блок итогов, таблица на компьютере и компактные карточки на телефоне.</p><a href="variant-a.html">Открыть вариант A →</a></article><article><h2>B. Свободный</h2><p>Отдельные итоги и карточки клиентов на компьютере и телефоне. Больше воздуха, меньше строк в поле зрения.</p><a href="variant-b.html">Открыть вариант B →</a></article><p>Работают поиск, выбор клиентов, переключение динамики и сортировка. Формирование отчётов показано только как сценарий интерфейса.</p></html>

diff --git a/docs/client-concepts/README.md b/docs/client-concepts/README.md
@@ -4,7 +4,7 @@
 
 ## A · Компактный список
 
-Таблица на компьютере, компактные карточки на телефоне. Больше клиентов на экране, удобнее сравнивать показатели.
+Боковая навигация на компьютере, таблица и компактные карточки на телефоне. На телефоне меню открывается кнопкой в верхней панели. Больше клиентов на экране, удобнее сравнивать показатели.
 
 ![Вариант A: компьютер и телефон](preview-a.png)
 
